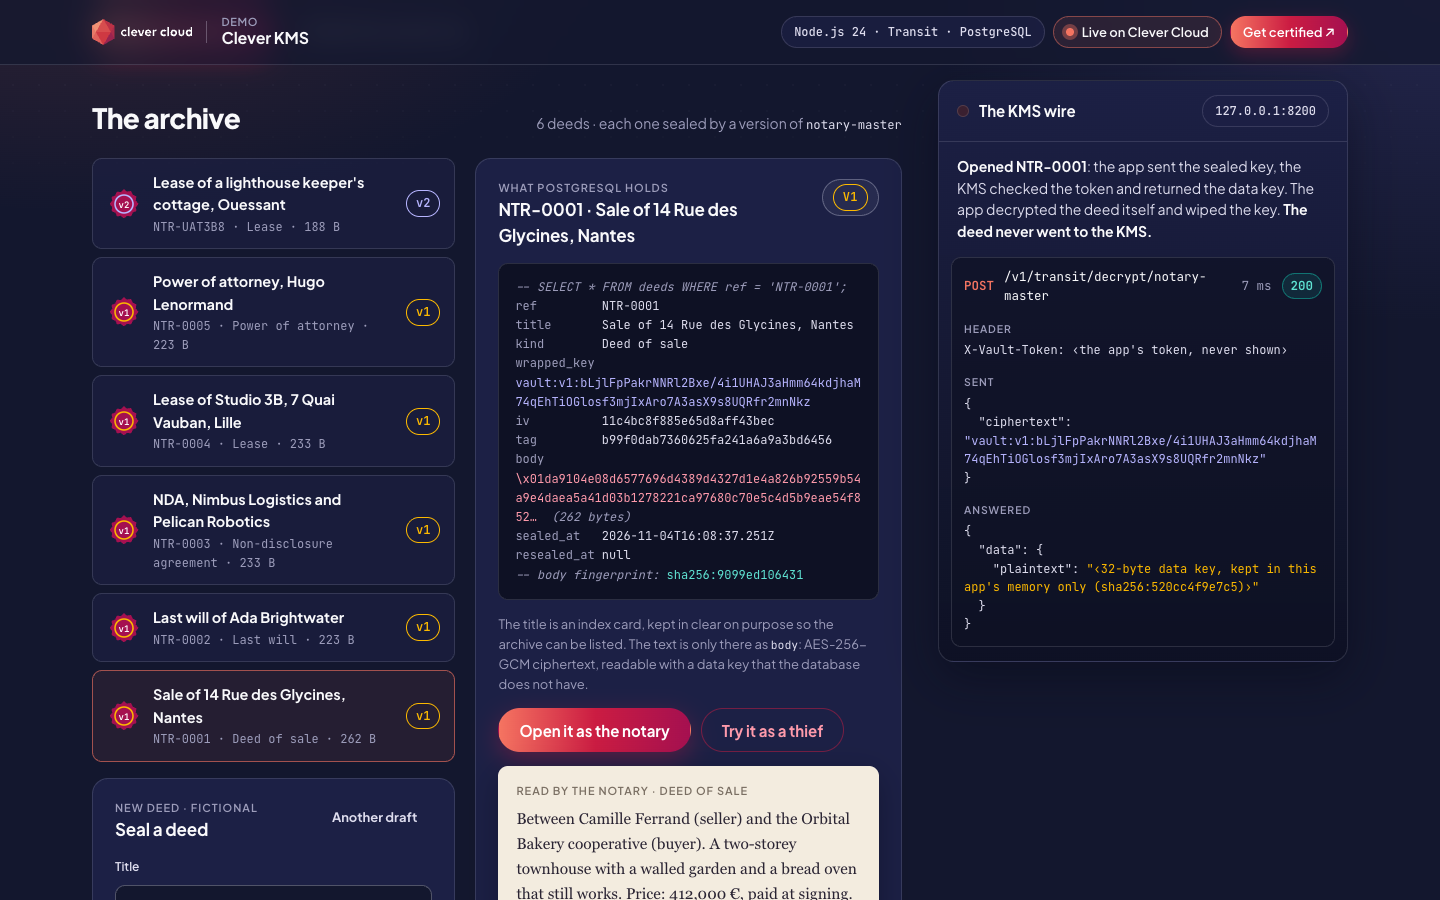
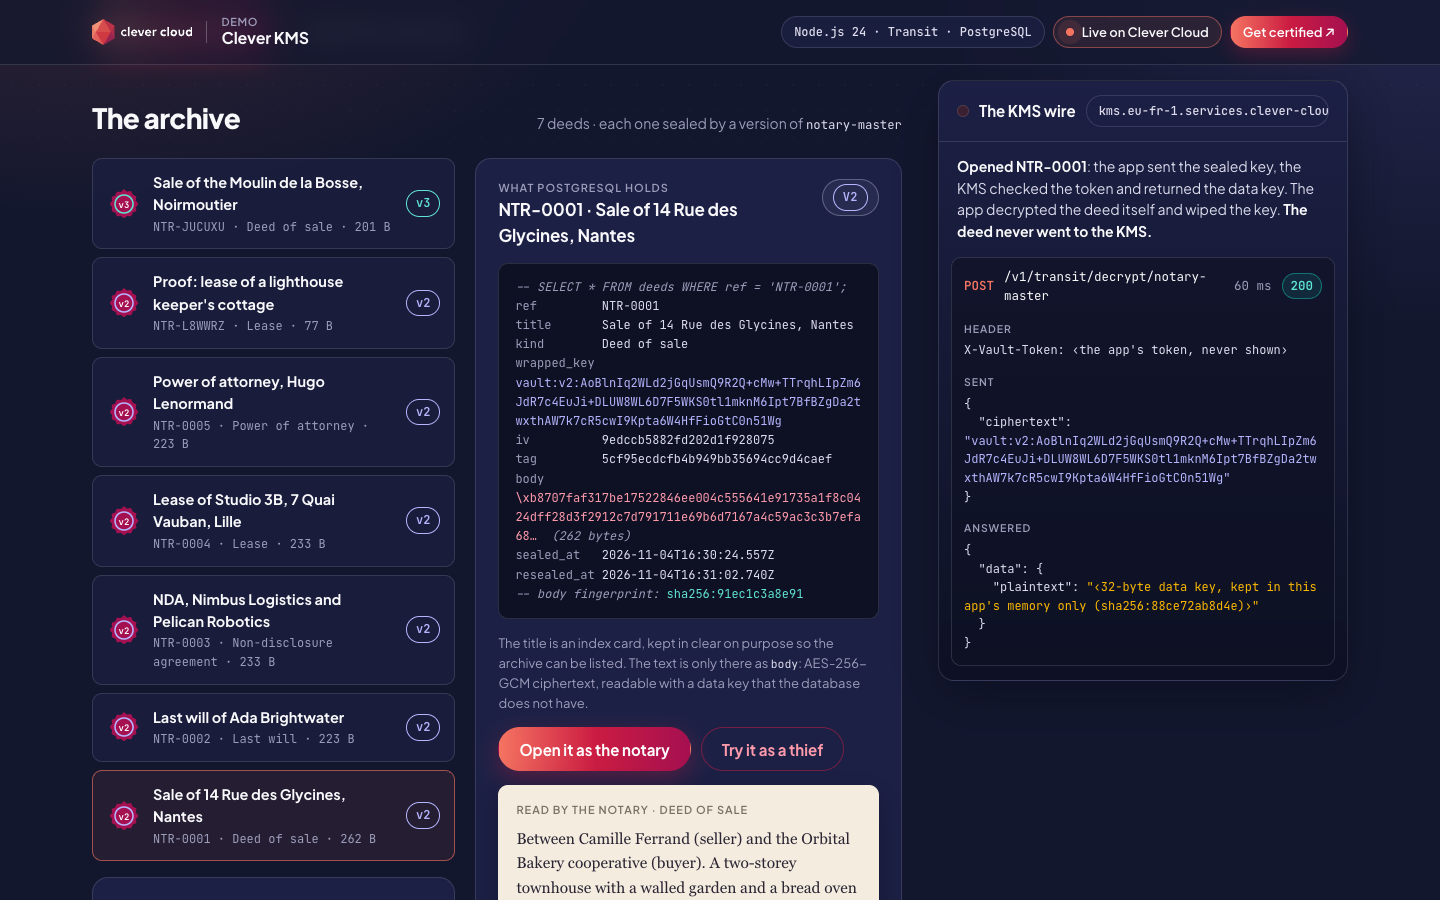
Live on Clever KMS: linked add-on, full endpoint on the wire, live screenshots
The KMS add-on injects VAULT_ADDR and VAULT_TOKEN when linked, so the
README drops the manual token step. Screenshots now come from Clever KMS.

diff --git a/public/notary.css b/public/notary.css
@@ -30,9 +30,10 @@ button[disabled] { opacity: 0.5; pointer-events: none; }
 
 /* ---------- The KMS wire: every call of the last action ---------- */
 .wire { position: sticky; top: 80px; margin-top: clamp(28px, 5vw, 60px); max-height: calc(100vh - 100px); display: flex; flex-direction: column; border-radius: var(--cc-radius); border: 1px solid var(--cc-border); background: linear-gradient(180deg, rgba(28, 32, 69, 0.96), rgba(14, 17, 36, 0.98)); box-shadow: var(--cc-shadow); overflow: hidden; min-width: 0; }
-.wire__head { display: flex; align-items: center; gap: 10px; padding: 14px 18px; border-bottom: 1px solid var(--cc-border); }
-.wire__head h2 { font-size: 15px; font-weight: 700; white-space: nowrap; }
-.wire__host { margin-left: auto; min-width: 0; overflow: hidden; text-overflow: ellipsis; white-space: nowrap; }
+.wire__head { display: flex; flex-wrap: wrap; align-items: center; gap: 8px 10px; padding: 14px 18px; border-bottom: 1px solid var(--cc-border); }
+.wire__head h2 { flex: 1; font-size: 15px; font-weight: 700; white-space: nowrap; }
+/* The full KMS endpoint: it drops under the title rather than being cut. */
+.wire__host { max-width: 100%; overflow-wrap: anywhere; white-space: normal; }
 .wire__lamp { width: 12px; height: 12px; border-radius: 50%; flex: none; background: #3a2030; box-shadow: inset 0 0 0 1px rgba(255, 255, 255, 0.12); transition: background 0.25s, box-shadow 0.25s; }
 .wire__lamp.is-on { background: var(--cc-orange); box-shadow: 0 0 14px 4px rgba(245, 116, 97, 0.6); }
 .wire__lamp.is-refused { background: var(--cc-red); box-shadow: 0 0 14px 4px rgba(203, 28, 66, 0.7); }

diff --git a/README.md b/README.md
@@ -4,13 +4,13 @@
 
 ![The archive: a deed as PostgreSQL stores it, opened by the notary, and the decrypt call on the KMS wire](docs/archive.png)
 
-![The master key: three versions, the oldest locked, and the KMS refusing a deed sealed by it](docs/master-key.png)
+![The master key: four versions, the three older ones locked, and Clever KMS refusing a deed sealed by v2](docs/master-key.png)
 
 | Phone, the archive | Phone, the master key |
 |---|---|
 | <img src="docs/phone-archive.png" width="300" alt="The archive on a phone"> | <img src="docs/phone-key.png" width="300" alt="The master key on a phone"> |
 
-**Run it yourself.** Clever KMS is in **private access** (November 2026): ask your Clever Cloud contact or the support to enable it on your organisation first. The hosted demo was taken down after the presales review. The steps in [Deploy on Clever Cloud](#deploy-on-clever-cloud) recreate it in about 10 minutes.
+**Run it yourself.** Clever KMS is in **private beta** (November 2026): ask your Clever Cloud contact or the support to open it for your user first. The hosted demo was taken down after the presales review. The steps in [Deploy on Clever Cloud](#deploy-on-clever-cloud) recreate it in about 10 minutes.
 
 ## What Clever KMS does in the demo
 
@@ -24,7 +24,7 @@ Clever KMS speaks the HashiCorp Vault / OpenBao HTTP API. The demo only uses its
 | **Try it as a thief** | the same call, without `X-Vault-Token` | `403 permission denied`: a database dump without the token is noise |
 | **Rotate** | `POST /v1/transit/keys/notary-master/rotate` | A new version. New deeds use it, old deeds still open with theirs, and nothing in PostgreSQL is re-encrypted |
 | **Re-seal** | `POST /v1/transit/rewrap/notary-master` | Each older sealed key comes back sealed by the latest version. Only the `wrapped_key` column changes: the body fingerprint stays the same |
-| **Lock / Unlock** | `POST /v1/transit/keys/notary-master/config` with `min_decryption_version` | Older versions are refused (`400 … disallowed by policy (too old)`), even for the app, until you unlock. Re-sealed deeds still open |
+| **Lock / Unlock** | `POST /v1/transit/keys/notary-master/config` with `min_decryption_version` | Older versions are refused (`400 ciphertext version 2 is below minimum decryption version 4`), even for the app, until you unlock. Re-sealed deeds still open |
 | The master key panel | `GET /v1/transit/keys/notary-master` | Versions, latest, lock state, read back from the KMS on every load |
 
 **Two layers, two key holders.** The PostgreSQL add-on is created with [encryption at rest](https://www.clever.cloud/developers/doc/security/encryption-at-rest/) (LUKS, one key per add-on, held by Clever Cloud): a stolen disk is unreadable. Envelope encryption adds the application layer: a database user, a backup or a dump only sees `body` as AES-256-GCM ciphertext, and opening it takes a call to the KMS with the app's token. Each deed's reference is bound to its ciphertext (AES-GCM additional data), so a body copied onto another row fails to open.
@@ -35,7 +35,7 @@ Clever KMS speaks the HashiCorp Vault / OpenBao HTTP API. The demo only uses its
 
 ## Deploy on Clever Cloud
 
-You need [clever-tools](https://www.clever.cloud/developers/doc/cli/) (`clever login` done), Clever KMS enabled on your organisation, and the organisation ID (`orga_…`, shown in the Console). Run the commands from the repo root: `clever create` links the folder to the new app.
+You need [clever-tools](https://www.clever.cloud/developers/doc/cli/) (`clever login` done), Clever KMS opened for your Clever Cloud user, and the organisation ID (`orga_…`, shown in the Console). Run the commands from the repo root: `clever create` links the folder to the new app.
 
 ```bash
 # 1. The app and its size (Node.js 24, from "engines" in package.json)
@@ -47,15 +47,11 @@ clever addon create postgresql-addon demo-kms-notary-pg --plan xxs_sml --region 
   --org <org_id> --option encryption=true --yes
 clever service link-addon demo-kms-notary-pg          # injects POSTGRESQL_ADDON_URI
 
-# 3. Clever KMS (private access)
-clever addon create kms demo-kms-notary-kms --org <org_id>
-#    it prints two Biscuit tokens: root (administration) and user (day-to-day). Keep them safe.
+# 3. Clever KMS (private access, plan beta), linked: injects VAULT_ADDR and VAULT_TOKEN
+clever addon create kms demo-kms-notary-kms --plan beta --region par --org <org_id>
+clever service link-addon demo-kms-notary-kms
 
-# 4. Variables
-clever env set VAULT_ADDR https://kms.eu-fr-1.services.clever-cloud.com:8200
-clever env set VAULT_TOKEN '<the user token>'
-
-# 5. Deploy and check
+# 4. Deploy and check
 clever deploy
 clever domain                                          # → app-….cleverapps.io
 node scripts/prove.mjs https://<your-app>.cleverapps.io
@@ -69,12 +65,14 @@ To remove everything: `clever delete --app <app_id>`, then `clever addon delete 
 
 | Variable | Set by | Role |
 |---|---|---|
-| `VAULT_ADDR` | you | Clever KMS address, `https://kms.eu-fr-1.services.clever-cloud.com:8200` |
-| `VAULT_TOKEN` | you, from `clever addon create kms` | The user token. Read server-side only, sent in the `X-Vault-Token` header, never logged or shown |
+| `VAULT_ADDR` | KMS add-on (linked) | Clever KMS address |
+| `VAULT_TOKEN` | KMS add-on (linked) | The user token. Read server-side only, sent in the `X-Vault-Token` header, never logged or shown |
 | `POSTGRESQL_ADDON_URI` | PostgreSQL add-on (linked) | Connection string. `POSTGRESQL_ADDON_DIRECT_URI` is preferred when present |
 | `KMS_KEY_NAME` | optional | Master key name, `notary-master` by default |
 | `TRANSIT_MOUNT` | optional | Transit mount path, `transit` by default |
 | `PG_POOL_MAX` | optional | PostgreSQL pool size per instance, `4` by default |
+
+The KMS add-on also injects `VAULT_ADMIN_TOKEN`, `VAULT_HOST` and `VAULT_PORT`; the app does not read them.
 
 The "Running on Clever Cloud" panel shows `CC_APP_NAME`, `APP_ID`, `INSTANCE_NUMBER`, `INSTANCE_TYPE`, `CC_PRETTY_INSTANCE_NAME`, `CC_COMMIT_ID` and `CC_DEPLOYMENT_ID`, and nothing else.
 
